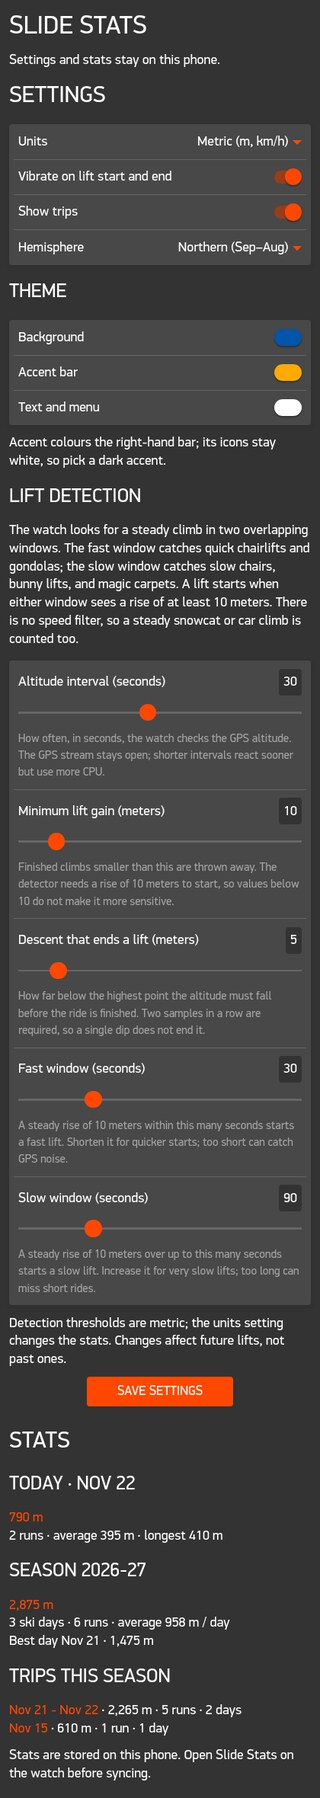
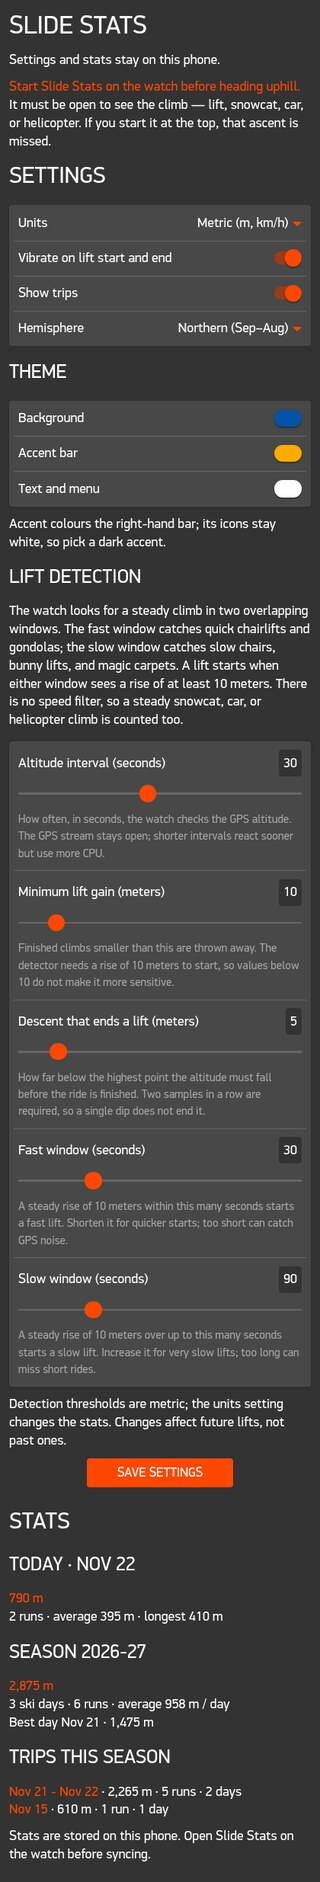
Add a start-before-the-climb reminder to the Clay page
Put a prominent reminder at the top of the phone page: start Slide Stats on
the watch before heading uphill, because starting at the top misses the
ascent. Mention that a steady snowcat, car, or helicopter climb is eligible
now that the speed filter is gone.

Changed region(s): [[0.0312, 0.0, 0.9688, 0.9967], [0.6562, 0.9032, 0.75, 0.9655], [0.7812, 0.9655, 0.8438, 0.9967]]

diff --git a/src/pkjs/lib/clay-config.js b/src/pkjs/lib/clay-config.js
@@ -73,6 +73,10 @@ function buildConfig(summary, settings) {
 	const config = [
 		{ type: "heading", defaultValue: "Slide Stats", size: 1 },
 		{ type: "text", defaultValue: "Settings and stats stay on this phone." },
+		{
+			type: "text",
+			defaultValue: "<strong>Start Slide Stats on the watch before heading uphill.</strong> It must be open to see the climb — lift, snowcat, car, or helicopter. If you start it at the top, that ascent is missed.",
+		},
 		{ type: "heading", defaultValue: "Settings", size: 2 },
 		{ type: "section", items: [
 			{
@@ -136,7 +140,7 @@ function buildConfig(summary, settings) {
 		{ type: "heading", defaultValue: "Lift detection", size: 3 },
 		{
 			type: "text",
-			defaultValue: "The watch looks for a steady climb in two overlapping windows. The fast window catches quick chairlifts and gondolas; the slow window catches slow chairs, bunny lifts, and magic carpets. A lift starts when either window sees a rise of at least 10 meters. There is no speed filter, so a steady snowcat or car climb is counted too.",
+			defaultValue: "The watch looks for a steady climb in two overlapping windows. The fast window catches quick chairlifts and gondolas; the slow window catches slow chairs, bunny lifts, and magic carpets. A lift starts when either window sees a rise of at least 10 meters. There is no speed filter, so a steady snowcat, car, or helicopter climb is counted too.",
 		},
 		{ type: "section", items: [
 			{

diff --git a/README.md b/README.md
@@ -114,7 +114,8 @@ The phone page is built with [Clay](https://github.com/pebble-dev/clay) and gene
 locally by PebbleKit JS, so it works offline. Settings come first: units, vibration,
 trips, hemisphere, the 64-colour theme picker, and the lift-detection thresholds. Below
 the Save button are read-only summaries for today, the current season, and this season's
-trips. There are no tabs, tables, or charts.
+trips. There are no tabs, tables, or charts. A reminder at the top says to start the
+watch app before heading uphill.
 
 ## Build
 
@@ -176,6 +177,8 @@ removed to keep the app bundle inside the watch's archive mapping limit.
 ## Known limitations
 
 - The app must stay open while skiing. Wakeups cannot track continuously.
+- Start Slide Stats on the watch before heading uphill. The app must be open to see the
+  ascent, so starting it at the top misses that climb.
 - The in-progress lift is kept across app restarts on the same day; a new day starts fresh.
 - A lift that ends after local midnight counts on the new day.
 - There is no current-altitude display and no base-altitude value; only run counts and
@@ -189,8 +192,8 @@ removed to keep the app bundle inside the watch's archive mapping limit.
 - The Clay page has no tabs, tables, or charts. Stats are summary text for today, the
   current season, and this season's trips.
 - Detection thresholds are edited in metric units; the units setting changes the stats.
-- There is no speed filter. A steady snowcat or car climb can be counted as a lift; use Undo
-  Last Lift to correct an accidental detection.
+- There is no speed filter. A steady snowcat, car, or helicopter climb can be counted
+  as a lift; use Undo Last Lift to correct an accidental detection.
 - The phone must keep feeding GPS while the watch app is open. Background-location
   behaviour on iOS is the first thing to verify on snow.
 - The GPS stream stays open for the session; the settings interval controls how often the

diff --git a/docs/design.md b/docs/design.md
@@ -70,7 +70,8 @@ still needs a decision.
   trips, hemisphere, theme, and lift-detection thresholds. Read-only stats follow for
   today, the current season, and this season's trips. No tabs, tables, charts, or export
   in v1. Detection thresholds are edited in metric units; the units setting changes the
-  stats.
+  stats. A top-of-page reminder tells people to start the watch app before heading uphill;
+  starting at the top loses the ascent.
 - **Settings split:** quick items on the watch (pause, end day, undo last lift, units,
   vibration, sync now); theme, hemisphere, altitude processing interval, detection
   thresholds, trips toggle, and the Clay page on the phone.
@@ -116,8 +117,9 @@ Centred vertical stack, no decoration, with the native action bar on the right:
 - **Fast start:** net gain ≥ 10 m within 30 s.
 - **Slow start:** net gain ≥ 10 m within 90 s (covers bunny lifts and magic carpets).
 - Most samples in the window must be rising, not a single noise spike.
-- No speed gate: a steady climb at any speed is counted, including a snowcat or car climb.
-  This is deliberate so vehicle access counts; Undo Last Lift corrects accidental detections.
+- No speed gate: a steady climb at any speed is counted, including a snowcat, car, or
+  helicopter climb. This is deliberate so vehicle access counts; Undo Last Lift corrects
+  accidental detections.
 - Detection runs on the median-filtered altitude. The lift's start and peak are recorded
   from raw altitudes so the filter does not shave metres off short lifts.
 - **End:** raw altitude ≥ 5 m below the lift peak for two samples. There is deliberately
